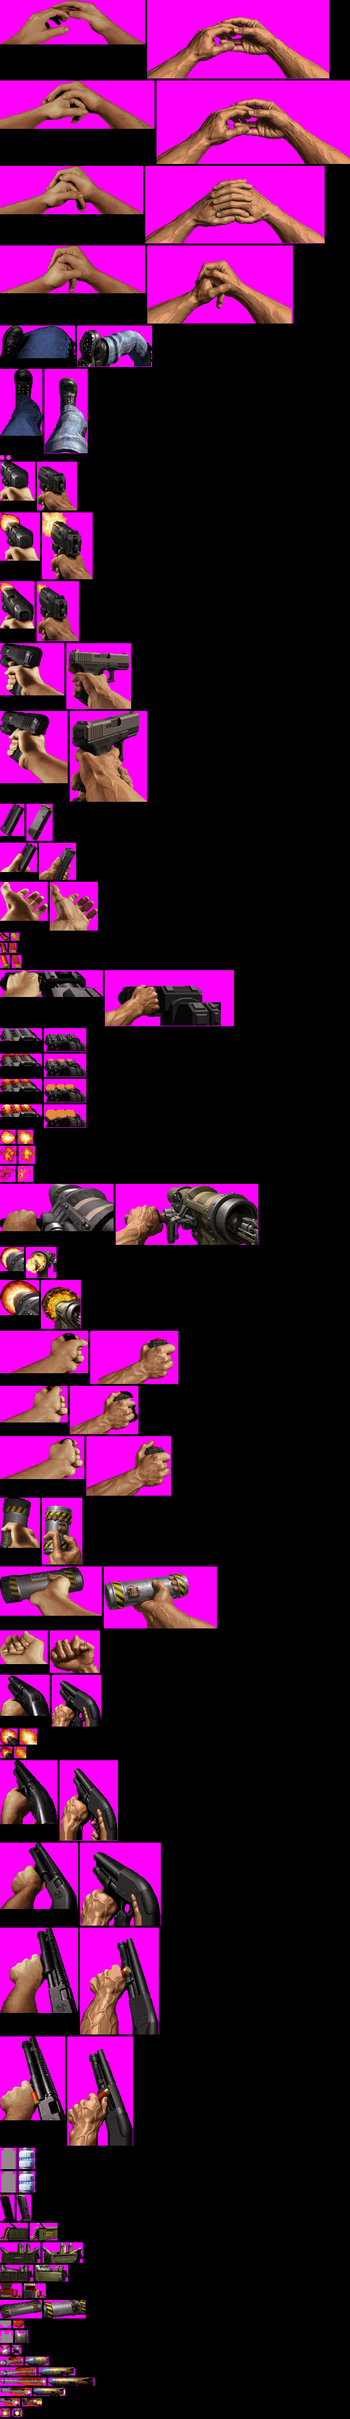
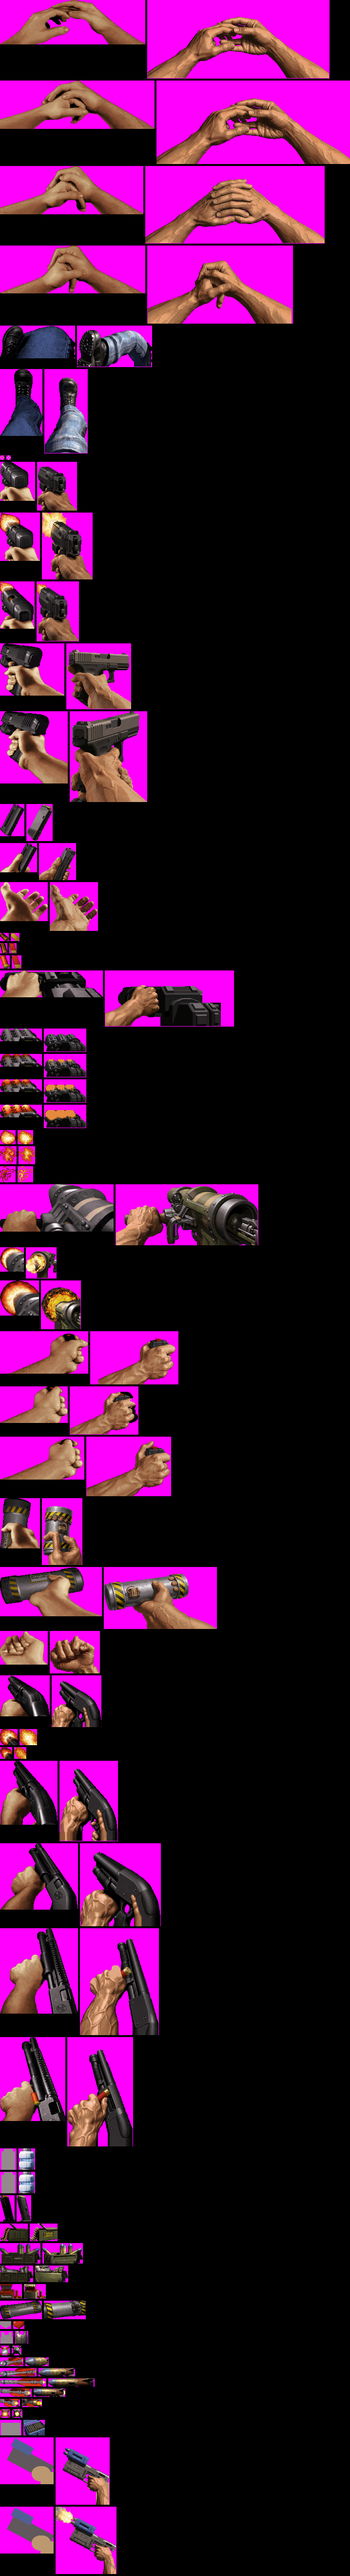
Lapis now feeds the devastator: our own twin mini-rocket launcher (both hands) and a lapis-blue ammo box; the freezer is cut; emine_ammo dev command

diff --git a/tools/mkweapons.py b/tools/mkweapons.py
@@ -87,14 +87,19 @@ TILES = {
     2609: ('a rocket in flight seen from the side and a little from behind, as in the guide, a bright exhaust flame at its tail: brass body, blue-grey pointed warhead, small dark steel fins at the tail', 'rocket', 2608, True),
     2610: ('a rocket in flight seen from behind at an angle, foreshortened, a bright yellow-orange exhaust flame at its tail', 'rocket', 2608, True),
     2611: ('a rocket in flight seen straight from behind: four small dark fins in an X around a bright yellow-orange exhaust flame', 'rocket', 2608, True),
+    # the devastator (lapis): the shareware has no art for it, so our own layout guide; the game draws it in the right
+    # hand and mirrored in the left
+    2510: (HAND + ' gripping ' + "a chunky futuristic twin-tube mini-rocket launcher (gunmetal body with lapis-blue armour panels, two short rocket tubes side by side on top), held low at the bottom right of the view and pointing forward and a little left, seen from behind the shooter", 'rocket launcher', None, False),
+    2511: (HAND + ' gripping ' + "a chunky futuristic twin-tube mini-rocket launcher (gunmetal body with lapis-blue armour panels, two short rocket tubes side by side on top), held low at the bottom right of the view and pointing forward and a little left, seen from behind the shooter" + '; it is firing, bright yellow-orange flashes at the mouths of both tubes', 'rocket launcher', 2510, True),
+    42: ('an ammo pickup for the game: a small lapis-blue steel box with its lid open, packed with a row of small brass mini rockets with blue-grey tips', 'ammo box', None, False),
     51: ('a game HUD icon: a chunky glossy red heart with a bright highlight, filling the guide', 'heart icon', None, False),
     54: ('a game HUD icon: a riveted iron chest plate (body armour), front view, filling the guide', 'armour icon', None, False),
 }
 # world sprites and icons: not padded (a world sprite's bottom edge sits on the floor; icons keep their size)
-PICKUPS = (37, 40, 41, 44, 47, 49, 26, 51, 54, 2605, 2606, 2607, 2608, 2609, 2610, 2611)
+PICKUPS = (37, 40, 41, 42, 44, 47, 49, 26, 51, 54, 2605, 2606, 2607, 2608, 2609, 2610, 2611)
 LOCAL = [2523, 2533, 2534, 2535, 2538, 2539, 2540, 2541, 2542, 2543, 2614, 2615]
 GROUPS = [(2324, 2327), (2521, 2526), (2528, 2546), (2570, 2575), (2613, 2619), (37, 38), (40, 41), (44, 44), (47, 47), (49, 49),
-          (26, 26), (51, 51), (54, 54), (2605, 2611)]
+          (26, 26), (51, 51), (54, 54), (2605, 2611), (42, 42), (2510, 2511)]
 COPIES = {38: 37}
 FLIP = {2608}  # painted facing the other way from the rocket's other views: mirrored to match  # the HUD shows freezer ammo as FREEZEAMMO+1 (empty in the shareware): the same canister  # one ART file each (consecutive tiles)
 ASPECTS = [(21, 9), (16, 9), (3, 2), (4, 3), (1, 1), (3, 4), (2, 3), (9, 16)]
@@ -119,6 +124,27 @@ def duke(n):
         pa = 0
     if n == 38 and px is None:
         return duke(37)
+    if n == 42 and px is None:  # devastator ammo: a box on the floor, like the others
+        px = np.full((32, 44), 255, np.uint8)
+        px[6:32, 2:42] = 15
+        pa = 0
+    if n in (2510, 2511) and px is None:
+        # Devastator: our own layout. A gun body slanting up and left from the bottom right, a hand and forearm on it.
+        # Offsets put it low in the right of the screen (the game draws it at x 268, y 238 of 320x200, and a mirrored
+        # copy at x 30 for the left hand).
+        w, h = 110, 96
+        yy, xx = np.mgrid[0:h, 0:w].astype(float)
+        a = np.radians(-28)
+        u = (xx - 62) * np.cos(a) - (yy - 52) * np.sin(a)
+        v = (xx - 62) * np.sin(a) + (yy - 52) * np.cos(a)
+        gun = (np.abs(u) < 46) & (np.abs(v) < 17)
+        tubes = (np.abs(u + 30) < 22) & (np.abs(v + 21) < 9)
+        hand = ((xx - 84) ** 2 / 20 ** 2 + (yy - 74) ** 2 / 16 ** 2) < 1
+        arm = (xx > 82) & (yy > 70) & (yy - 70 > (xx - 82) * -0.2)
+        grey, blue, skin = (int(np.argmin(((_pal - c) ** 2).sum(1)[:255])) for c in ((95, 95, 100), (60, 90, 170), (200, 150, 110)))
+        px = np.full((h, w), 255, np.uint8)
+        px[gun] = grey; px[tubes] = blue; px[hand | arm] = skin
+        pa = ((-20 & 255) << 8) | ((28 & 255) << 16)  # low in the corner, the cut-off forearm off the bottom and side
     if n in (51, 54):  # HUD icons: our own outlines (a heart, a chest plate) at Duke's icon sizes
         w, h = (23, 16) if n == 51 else (27, 26)
         yy, xx = np.mgrid[0:h, 0:w].astype(float)

diff --git a/engine/source/duke3d/src/emine.cpp b/engine/source/duke3d/src/emine.cpp
@@ -54,7 +54,7 @@ static int Emine_OreAmmo(int type, int *count)
         case VW_IRON:     *count = 3; return SHOTGUNAMMO;  // shotgun shells
         case VW_GOLD:     *count = 2; return BATTERYAMMO;  // chaingun ammo
         case VW_REDSTONE: return HBOMBAMMO;    // pipe bombs
-        case VW_LAPIS:    return FREEZEAMMO;   // freeze thrower
+        case VW_LAPIS:    return DEVISTATORAMMO;  // devastator (twin mini-rocket launcher)
         case VW_DIAMOND:  return RPGAMMO;      // rockets
         default:          *count = 0; return 0;
     }
@@ -498,6 +498,20 @@ void Emine_ResetWeapons(int playerNum)
     p.ammo_amount[PISTOL_WEAPON] = min<int16_t>(p.max_ammo_amount[PISTOL_WEAPON], 12);
 }
 
+// Dev console: `emine_ammo <weapon> <amount>` sets that weapon's ammo (weapon numbers as Duke's: 1 pistol, 2 shotgun,
+// 3 chaingun, 4 RPG, 5 pipe bomb, 7 devastator, ...). For testing a weapon without mining for it.
+static int osdcmd_emine_ammo(osdcmdptr_t parm)
+{
+    if (parm->numparms < 2) return OSDCMD_SHOWHELP;
+    auto const p = g_player[myconnectindex].ps;
+    int const w = Batol(parm->parms[0]);
+    if ((unsigned)w >= MAX_WEAPONS) return OSDCMD_SHOWHELP;
+    p->gotweapon |= 1 << w;
+    p->ammo_amount[w] = clamp(Batol(parm->parms[1]), 0, (int)p->max_ammo_amount[w]);
+    OSD_Printf("emine_ammo: weapon %d has %d (max %d)\n", w, p->ammo_amount[w], p->max_ammo_amount[w]);
+    return OSDCMD_OK;
+}
+
 // Dev console: `emine_ore <blocktype>` drops what breaking that ore would, a couple of blocks in front of the player.
 static int osdcmd_emine_ore(osdcmdptr_t parm)
 {
@@ -625,6 +639,7 @@ void Emine_RegisterOSD(void)
 {
     OSD_RegisterFunction("emine_look", "emine_look <horiz>: dev - set the view pitch (100 level, lower looks down)", osdcmd_emine_look);
     OSD_RegisterFunction("emine_find", "emine_find <blocktype>: dev - stand on the nearest column topped with that block (31 = snow)", osdcmd_emine_find);
+    OSD_RegisterFunction("emine_ammo", "emine_ammo <weapon> <amount>: dev - set a weapon's ammo (7 = devastator)", osdcmd_emine_ammo);
     OSD_RegisterFunction("emine_ore", "emine_ore <blocktype>: dev - drop what breaking that ore gives (11 coal, 12 iron, 13 gold, 14 redstone, 33 lapis, 34 diamond)", osdcmd_emine_ore);
     OSD_RegisterFunction("emine_spawn", "emine_spawn <tile> [blocks]: dev - spawn that sprite/actor on the ground in front of you (default 4 blocks)", osdcmd_emine_spawn);
     OSD_RegisterFunction("emine_list", "emine_list [blocks]: dev - list the enemies near you (default 32 blocks)", osdcmd_emine_list);

diff --git a/tools/mkworld.py b/tools/mkworld.py
@@ -441,7 +441,7 @@ def write_textures():
     for f in ('big', 'bigappos', 'small', 'mini', 'digits'):
         lines.append('artfile { file "textures/font_%s.art" }' % f)
     lines.append("// first-person weapons, kick, hands, crosshair, casings and flashes, in place of Duke's (tools/mkweapons.py)")
-    for f in (2324, 2521, 2528, 2570, 2613, 37, 40, 44, 47, 49, 26, 51, 54, 2605):  # then ammo pickups, pipe bomb, HUD icons, rocket
+    for f in (2324, 2521, 2528, 2570, 2613, 37, 40, 44, 47, 49, 26, 51, 54, 2605, 42, 2510):  # then ammo pickups, pipe bomb, HUD icons, rocket, devastator
         lines.append('artfile { file "textures/weapons_%d.art" }' % f)
     lines.append("// fire, explosions, smoke, bullet sparks, water splashes: drawn procedurally (tools/mkfx.py)")
     for f in (1380, 1890, 2270, 2310, 2329, 2595):

diff --git a/docs/ART-LAUNDRY.md b/docs/ART-LAUNDRY.md
@@ -99,9 +99,9 @@ The shareware has no freezer art at all (its tiles are empty), so the freezer is
 | [x] | Shotgun | SHOTGUN 2613 | iron | R | Done, with the pump and loading frames, red shells and flashes (`tools/mkweapons.py`). |
 | [x] | Chaingun | CHAINGUN 2536 | gold | R | Done: receiver, barrels (heating up locally drawn) and flashes (`tools/mkweapons.py`). |
 | [x] | Pipe bomb + detonator | HANDTHROW 2573 / HANDREMOTE 2570 | redstone | R | Done: canister with hazard caps, throw and detonator hand (`tools/mkweapons.py`). |
-| [ ] | Freezer | FREEZE 2548 | lapis | R | idle, fire 2 (missing from shareware anyway) |
+| [x] | ~~Freezer~~ → Devastator | DEVISTATOR 2510-2511 | lapis | R | The freezer is cut (no art in the shareware, no ore feeds it now). Lapis gives devastator ammo instead: our own twin mini-rocket launcher (fal, from our own layout guide, drawn in both hands), a lapis-blue box of mini rockets as its pickup and HUD icon (tile 42). Its shots are our rocket. |
 | [x] | RPG | RPGGUN 2544 | diamond | R | Done, with its two blast frames (`tools/mkweapons.py`). |
-| [ ] | Shrinker, Devastator, Trip mine | | — | C | No ore gives their ammo |
+| [ ] | Shrinker, Trip mine, Freezer | | — | C | No ore gives their ammo, so they can't be selected. Remaining chore: hide them from the weapon list entirely. |
 | [x] | Crosshair | CROSSHAIR 2523 | | R | Done: a small gapped plus (`tools/mkweapons.py`). |
 | [x] | Projectiles in the world: rocket, pipe bomb, freeze bolt, shotspark, shell casings, muzzle flashes | | | R | Done: rocket in flight (7 views) and the pipe bomb lying in the world painted (`tools/mkweapons.py`); bullet sparks procedural (`tools/mkfx.py`); casings ours. No freeze bolt (no freezer art). |
 | [x] | Explosion, smoke, glass shards, water splash, fire | EXPLOSION2 1890, SMALLSMOKE, GLASSPIECES 1031… | | R | Done, procedural (`tools/mkfx.py`): the 20-frame explosion, both 14-frame flames (burning mobs, fire), smoke puffs, water splashes. Glass shards still Duke's (only if glass breaks). |
